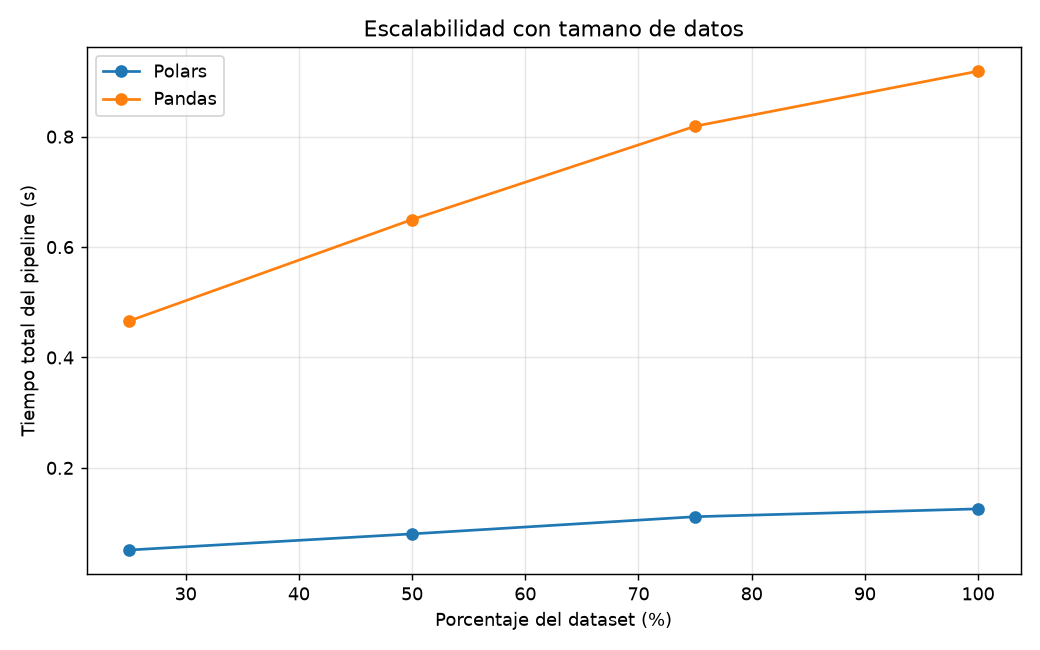
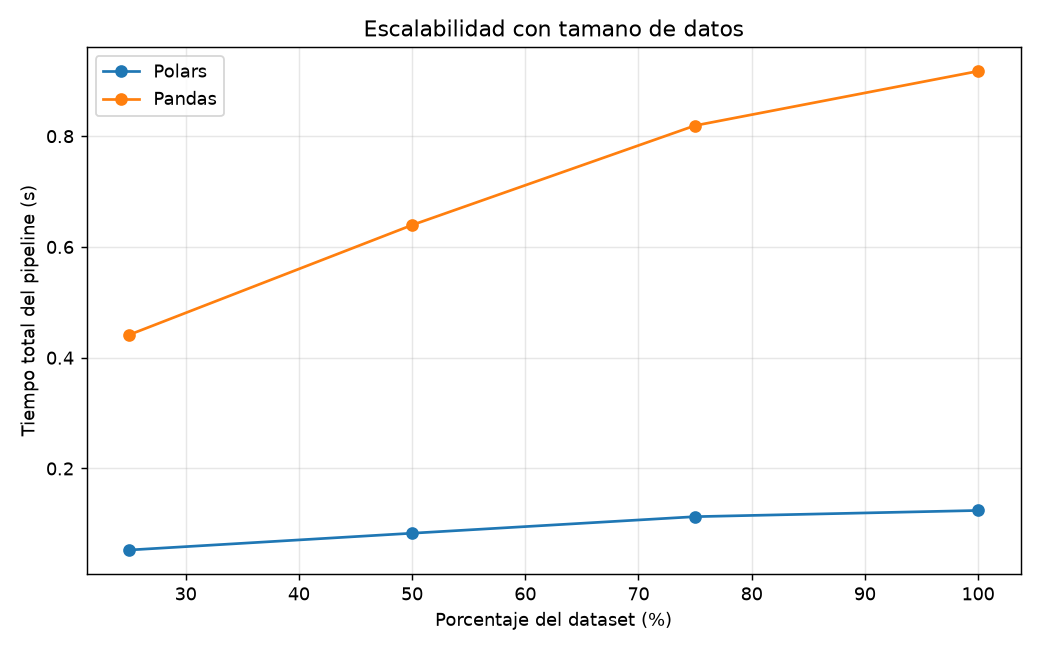
Tarea3: actualizar resultados y graficas de la corrida final

diff --git a/rossmann_project/report/report_outline.md b/rossmann_project/report/report_outline.md
@@ -1,68 +1,111 @@
-# Tarea 3: Polars vs Pandas — Informe
+# Tarea 3: Polars vs Pandas — Pipeline de Datos y Machine Learning
 
-> Plantilla. Llená cada sección con tus resultados reales (carpeta `results/` y `figures/`).
-> Exportá a PDF (por ejemplo desde el notebook, VS Code, o `pandoc report_outline.md -o report.pdf`).
+## Descripción del problema
+Se construye un pipeline completo de análisis de datos y aprendizaje automático sobre el dataset **Rossmann Store Sales**. El objetivo es un problema de **regresión**: predecir las ventas diarias (`Sales`) de las tiendas a partir de variables de calendario, promociones, competencia y características de cada tienda. Se compara sistemáticamente el rendimiento de **Polars** y **Pandas** en cada etapa del procesamiento.
 
-## 1. Descripción del dataset
-- Fuente: Kaggle, Rossmann Store Sales.
-- Tamaño: ___ filas, ___ columnas (train); ___ tiendas (store).
-- Variable objetivo: `Sales` (regresión).
-- Variables numéricas y categóricas: describir las principales.
-- Valores faltantes detectados: (ver `results/eda_summary.json`).
-- Decisiones de limpieza: filtro `Open==1 & Sales>0`, imputaciones aplicadas.
+## Fuente del dataset
+- Kaggle: *Rossmann Store Sales* (`rossmann-store-sales`).
+- `train.csv`: 1.017.209 registros (ventas diarias por tienda).
+- `store.csv`: metadatos de 1.115 tiendas (se usa para el join requerido).
+- Cumple los requisitos: más de 100.000 registros, problema de regresión, variables numéricas y categóricas, disponibilidad pública.
+- Por restricciones de acceso a la API de Kaggle, se descargó desde un repositorio espejo público que contiene los archivos originales sin modificación.
 
-## 2. Pipeline implementado
-Describir las 6 etapas: filtrado, join, manejo de faltantes, transformación,
-nuevas características, agregación group_by. Incluir un fragmento corto de código
-de cada etapa.
+## Requisitos de software
+Ver `requirements.txt`. Resumen: Python 3.10+, polars, pandas, numpy, scikit-learn, matplotlib, psutil, pyarrow.
 
-## 3. Resultados de Machine Learning
-Tabla con los 3 modelos (de `results/ml_results.json`):
+## Instrucciones de instalación
+```
+python -m venv venv
+source venv/bin/activate
+pip install -r requirements.txt
+```
 
-| Modelo            | Tiempo (s) | RMSE | MAE |
-|-------------------|------------|------|-----|
-| LinearRegression  |            |      |     |
-| RandomForest      |            |      |     |
-| GradientBoosting  |            |      |     |
+## Obtención del dataset
+Con la API de Kaggle configurada (`~/.kaggle/kaggle.json`):
+```
+python download_data.py
+```
+Esto descarga y descomprime `train.csv` y `store.csv` en `data/raw/`.
 
-Comentar cuál fue el mejor y por qué.
+## Instrucciones de ejecución
+```
+python src/main.py
+```
+Genera las figuras en `figures/` y los resultados en `results/`. El notebook `notebooks/analysis.ipynb` ejecuta el mismo flujo de forma interactiva.
 
-## 4. Tablas comparativas Polars vs Pandas
-Tabla por etapa (de `results/benchmark_stages.json`):
+## Estructura del repositorio
+```
+rossmann_project/
+  data/raw/             datasets originales
+  data/processed/       datos transformados
+  notebooks/            analysis.ipynb
+  src/
+    preprocessing.py        loaders polars/pandas
+    feature_engineering.py  transformaciones en Polars
+    polars_pipeline.py      pipeline Polars con tiempos por etapa + lazy
+    pandas_pipeline.py      pipeline equivalente en Pandas
+    train_models.py         entrenamiento de los 3 modelos
+    benchmark.py            comparacion Polars vs Pandas + info del sistema
+    experiments.py          escalabilidad y lazy vs eager
+    eda.py                  analisis exploratorio
+    main.py                 orquestador
+  figures/
+  results/
+  report/
+  requirements.txt
+  README.md
+```
+
+## Pipeline implementado
+1. Filtrado: `Open == 1` y `Sales > 0`.
+2. Join: `train` con `store` por `Store`.
+3. Manejo de faltantes: `CompetitionDistance` con la mediana; columnas de competencia y promo2 con 0; `PromoInterval` con `"None"`.
+4. Transformacion: `Date` a `Year/Month/Day/WeekOfYear`; codificacion de `StateHoliday`, `StoreType` y `Assortment`.
+5. Nuevas caracteristicas: `CompetitionOpenMonths`, `IsPromoMonth`.
+6. Agregacion `group_by` + join de vuelta: `AvgStoreSales`, `AvgStoreCustomers` por tienda.
+
+## Modelos
+- Regresion Lineal (con `StandardScaler`).
+- Random Forest.
+- Gradient Boosting (`HistGradientBoostingRegressor`).
+Metricas reportadas: RMSE y MAE.
+
+## Resumen de resultados
+
+Información del sistema: 10 núcleos, 17.18 GB de RAM, 1.017.209 filas (38.06 MB).
+
+### Modelos
+
+| Modelo            | Tiempo entrenamiento (s) | RMSE    | MAE     |
+|-------------------|--------------------------|---------|---------|
+| LinearRegression  | 0.18                     | 1540.95 | 1102.87 |
+| RandomForest      | 18.50                    | 835.83  | 577.57  |
+| GradientBoosting  | 2.62                     | 966.64  | 683.39  |
+
+El mejor modelo fue Random Forest (menor RMSE y MAE).
+
+### Benchmark Polars vs Pandas (por etapa)
 
 | Etapa               | Polars (s) | Pandas (s) | Speedup |
 |---------------------|------------|------------|---------|
-| read                |            |            |         |
-| filter              |            |            |         |
-| join                |            |            |         |
-| feature_engineering |            |            |         |
-| aggregation         |            |            |         |
-| total               |            |            |         |
+| read                | 0.0196     | 0.2698     | 13.74x  |
+| filter              | 0.0031     | 0.0346     | 11.28x  |
+| join                | 0.0081     | 0.0265     | 3.26x   |
+| feature_engineering | 0.1072     | 0.6218     | 5.80x   |
+| aggregation         | 0.0058     | 0.0216     | 3.75x   |
+| total               | 0.1437     | 0.9742     | 6.78x   |
 
-Reportar: núcleos disponibles, RAM, tamaño del dataset (de `results/system_info.json`).
+### Escalabilidad
 
-## 5. Gráficas
-- `figures/stage_times.png` (tiempos por etapa).
-- `figures/scalability.png` (escalabilidad 25/50/75/100%).
-- `figures/speedup.png` (speedup vs tamaño).
-- `figures/target_distribution.png`, `figures/correlation.png`.
+| % del dataset | Polars (s) | Pandas (s) | Speedup |
+|---------------|------------|------------|---------|
+| 25%           | 0.0513     | 0.4661     | 9.09x   |
+| 50%           | 0.0805     | 0.6498     | 8.07x   |
+| 75%           | 0.1116     | 0.8189     | 7.34x   |
+| 100%          | 0.1258     | 0.9186     | 7.30x   |
 
-## 6. Experimento de Lazy Execution
-Comparar `read_csv` vs `scan_csv().collect()` (de `results/lazy_vs_eager.json`):
-tiempo de ejecución, uso de memoria, complejidad del pipeline.
+Polars fue 6.78x mas rapido que Pandas en el pipeline completo. El mayor speedup se observa en la lectura del CSV y el filtrado; las menores diferencias en el join y la agregacion.
 
-## 7. Discusión técnica y respuestas
-Responder las 10 preguntas del enunciado (sección 8) con base en tus números:
-1. Ventajas observadas con Polars.
-2. Operaciones con mayor speedup.
-3. Operaciones con diferencia pequeña.
-4. Beneficios de Lazy Execution.
-5. Limitaciones de Polars.
-6. Ventajas que mantiene Pandas.
-7. ¿Justifica migrar un proyecto existente?
-8. Efecto del tamaño del dataset en el beneficio.
-9. Mejor modelo predictivo.
-10. Recomendaciones para proyectos futuros.
-
-## 8. Conclusiones
-Cierre con 3-4 ideas principales sustentadas en los datos.
+## Notas técnicas
+- `AvgStoreSales`/`AvgStoreCustomers` se calculan sobre todo el conjunto; en un entrenamiento riguroso deberian calcularse solo sobre el fold de entrenamiento para evitar fuga de informacion.
+- La medicion de memoria (`lazy_vs_eager`) usa el RSS del proceso y es aproximada.
